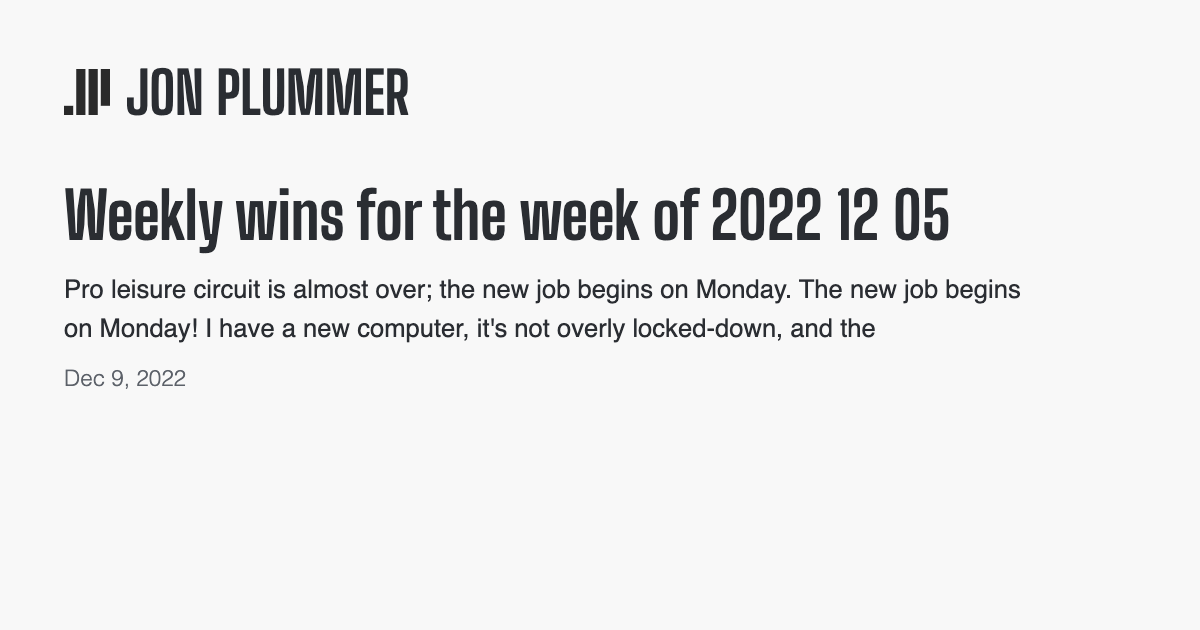
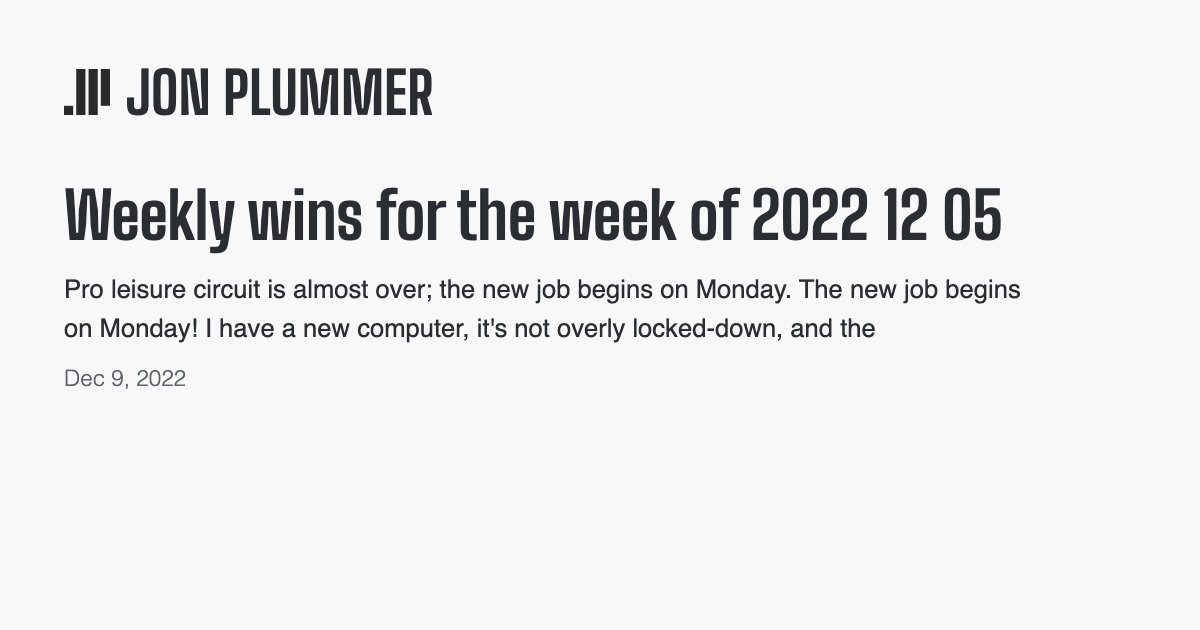
Regenerate OG images when their source changes
generate-og-images.js writes the derived ogImage path back into front
matter after rendering, so after one run every page looked identical to a
deliberate manual override. The "manual ogImage set and file exists" early
return then fired for all of them, ahead of needsRegeneration(), which
meant the mtime freshness check was dead code for every page that had ever
been generated. Images only refreshed when deleted outright or forced,
contradicting what docs/commands.md promises.

Skip only a genuine override now: an ogImage pointing somewhere other than
the path we derive for that file. Generated images fall through to the
freshness check as intended.

Regenerates 18 stale images, including now.png, which was still showing a
description replaced earlier today. The run renders every image whose
shared deps are newer, but byte-identical output means only real changes
reach git.

Adds an ideas.md task to replace the mtime comparison with a content hash;
git does not preserve mtimes, so a fresh clone marks everything stale.

Changed region(s): [[0.0617, 0.2714, 0.8325, 0.4222], [0.0925, 0.0905, 0.37, 0.181]]

diff --git a/scripts/content/generate-og-images.js b/scripts/content/generate-og-images.js
@@ -225,10 +225,16 @@ async function processFile(filePath, options = {}) {
   // True only when front matter had no ogImage key (not `auto`, not a manual path)
   const hadMissingOgImageKey = !frontMatter.ogImage;
   
-  // Skip if manually set ogImage exists AND image file exists (only skip if both are true)
-  // If force is true, regenerate everything regardless
-  // If ogImage is set but file doesn't exist, we need to generate it
-  if (!force && frontMatter.ogImage && frontMatter.ogImage !== 'auto') {
+  // Skip only a genuine manual override: an ogImage pointing somewhere other than
+  // the path we derive for this file. A value equal to ogImageUrl is one we wrote
+  // ourselves on a previous run (see the frontmatter write below), so it must fall
+  // through to needsRegeneration() or nothing would ever be refreshed after its
+  // first generation. If force is true, regenerate regardless. If the override's
+  // file doesn't exist, generate it below.
+  const isManualOverride =
+    frontMatter.ogImage && frontMatter.ogImage !== 'auto' && frontMatter.ogImage !== ogImageUrl;
+
+  if (!force && isManualOverride) {
     // Check if the file actually exists - if not, we need to generate it
     if (fs.existsSync(ogImagePath)) {
       return { updated: false, skipped: true, reason: 'Manual ogImage set and file exists' };

diff --git a/docs/ideas.md b/docs/ideas.md
@@ -62,7 +62,8 @@ Prioritized by **side-effect surface** — complexity that can produce a silentl
 - **Deploy spinner dedupe** — **`scripts/deploy/deploy.js`**: **`runWithSpinner()`** (lines ~37–125) used only for changelog; rsync block (~169–256) reimplements spawn + spinner + stdout/stderr buffering. **Plan**: extend **`runWithSpinner`** (or shared helper in **`spinner-utils.js`**) to cover rsync's needs; delete the inline duplicate (~90 lines). Verify: **`pnpm run deploy --dry-run`** still shows spinners and rsync itemize output.
 - **Template micro-dedupes** — Low-risk Nunjucks/CSS hygiene from complexity-opus5 Tier 2. (1) **`src/ogimages.njk:19–69`**: four nearly identical **`renderFile`** wrappers for OG examples — refactor to a **`for`** loop over example objects (PNG grid lower in the same file already loops correctly). (2) **`assetPrefix`** guard duplicated verbatim in **`src/_includes/head/meta_basic.njk:13`** and **`favicons.njk:3`** — extract **`_includes/head/asset_prefix.njk`** macro or include; **`test error-document-assets`** must still pass. (The unused **`.utility-page`** CSS went 2026-09-04 with the sibling nav.)
 - **Decouple color gallery from `eleventy.before`** — **`eleventy/config/events.js:116–123`** runs full **`runColorGalleryBuild({ stableWildThemes: true })`** before every Eleventy invocation; defensive code (**`writeTextFileIfChanged`**, **`createStableRng`**, stable wild pack) exists because random wild themes + rewrite looped **`--watch`**. **Plan**: remove hook; run **`pnpm run color-gallery`** explicitly when **`jonplummer.css`**, gallery scripts, or embed partials change; commit regenerated **`color-gallery-embed-*`** artifacts (or document regen step in **`docs/commands.md`**). **Do not** split **`generate-gallery.js`** first — Future → utility/lab pages entry says that pays twice before the unified style-exploration redesign. Verify: **`pnpm run dev --watch`** stable on unrelated edits; **`/color/`** still builds in CI/deploy. **`eleventy/config/shortcodes.js`** error message references this hook — update if removed.
-- **OG pipeline cleanup** — **`scripts/content/generate-og-images.js`** (~450 lines) runs outside Eleventy with its own Nunjucks env + duplicated **`postDate`** filter (lines 15–26); also triggered from **`eleventy.beforeWatch`** in **`events.js`**. **Plan (incremental)**: delete dead **`generateDataHash()`** if still present; share filter source with Eleventy (RenderPlugin or require from **`eleventy/config/filters.js`** date helpers); consider dropping dev-watch regen for every save (mtime/`--force` only). **Out of scope for this entry**: replacing Puppeteer with static SVG — large fidelity tradeoff. Verify: **`pnpm run generate-og-images`**, **`pnpm run test og-images`**, deploy OG step unchanged.
+- **OG pipeline cleanup** — **`scripts/content/generate-og-images.js`** (~450 lines) runs outside Eleventy with its own Nunjucks env + duplicated **`postDate`** filter (lines 15–26); also triggered from **`eleventy.beforeWatch`** in **`events.js`**. **Plan (incremental)**: share filter source with Eleventy (RenderPlugin or require from **`eleventy/config/filters.js`** date helpers); consider dropping dev-watch regen for every save (mtime/`--force` only). **Out of scope for this entry**: replacing Puppeteer with static SVG — large fidelity tradeoff. Verify: **`pnpm run generate-og-images`**, **`pnpm run test og-images`**, deploy OG step unchanged.
+- **OG freshness by content hash, not mtime** (2026-09-04) — **`needsRegeneration()`** decides staleness by comparing `fs.stat` mtimes: source file vs PNG, and each of **`OG_SHARED_DEPS`** vs PNG. Git does not record mtimes, so on a fresh clone every source file and shared dep gets checkout time and **every** OG image looks stale; conversely a PNG touched after a real content edit looks fresh and never refreshes. The shared-dep half is also all-or-nothing — one touch of **`jonplummer.css`** marks all ~207 images stale at once (observed 2026-09-04: 204 rendered, 18 actually differed, so the cost is wasted Puppeteer time rather than a bad deploy, since byte-identical output means git and rsync see nothing). **Plan**: hash the inputs that actually affect the render — `title`, `description`, `date`, plus the contents of the shared deps — and store the digest beside the image or in `.cache/`; regenerate when the digest changes. **`generateDataHash()`** was an earlier attempt at this and is already gone from the file. **Related**: `test og-images` checks that an `og:image` exists, not that it is current, so nothing catches staleness — worth deciding whether a freshness assertion belongs there or whether the hash makes it unnecessary. Background: the early-return bug fixed 2026-09-04, where a written-back `ogImage` path made every page look like a manual override and skipped the freshness check entirely.
 - **IndexNow — simplify or remove (don't fix in place)** — Rewritten since this entry was filed: the git-diff filters, `.indexnow-state.json`, hand-rolled permalink mapping, and static-page allowlist are gone, replaced by the shared content-hash manifest (`scripts/utils/indexnow.js` + `scripts/test/indexnow.js`, now ~460 lines total; see `test manifest-cursors`). **What remains open** is the same question, minus the mess: it still runs on every deploy and in `test fast`, and it is still marginal on a personal blog that already ships **`sitemap.xml`** and RSS. Either **(A) replace** with one post-deploy sitemap submit, or **(B) remove** from deploy, tests, and docs.
 
 ### Nav / footer
